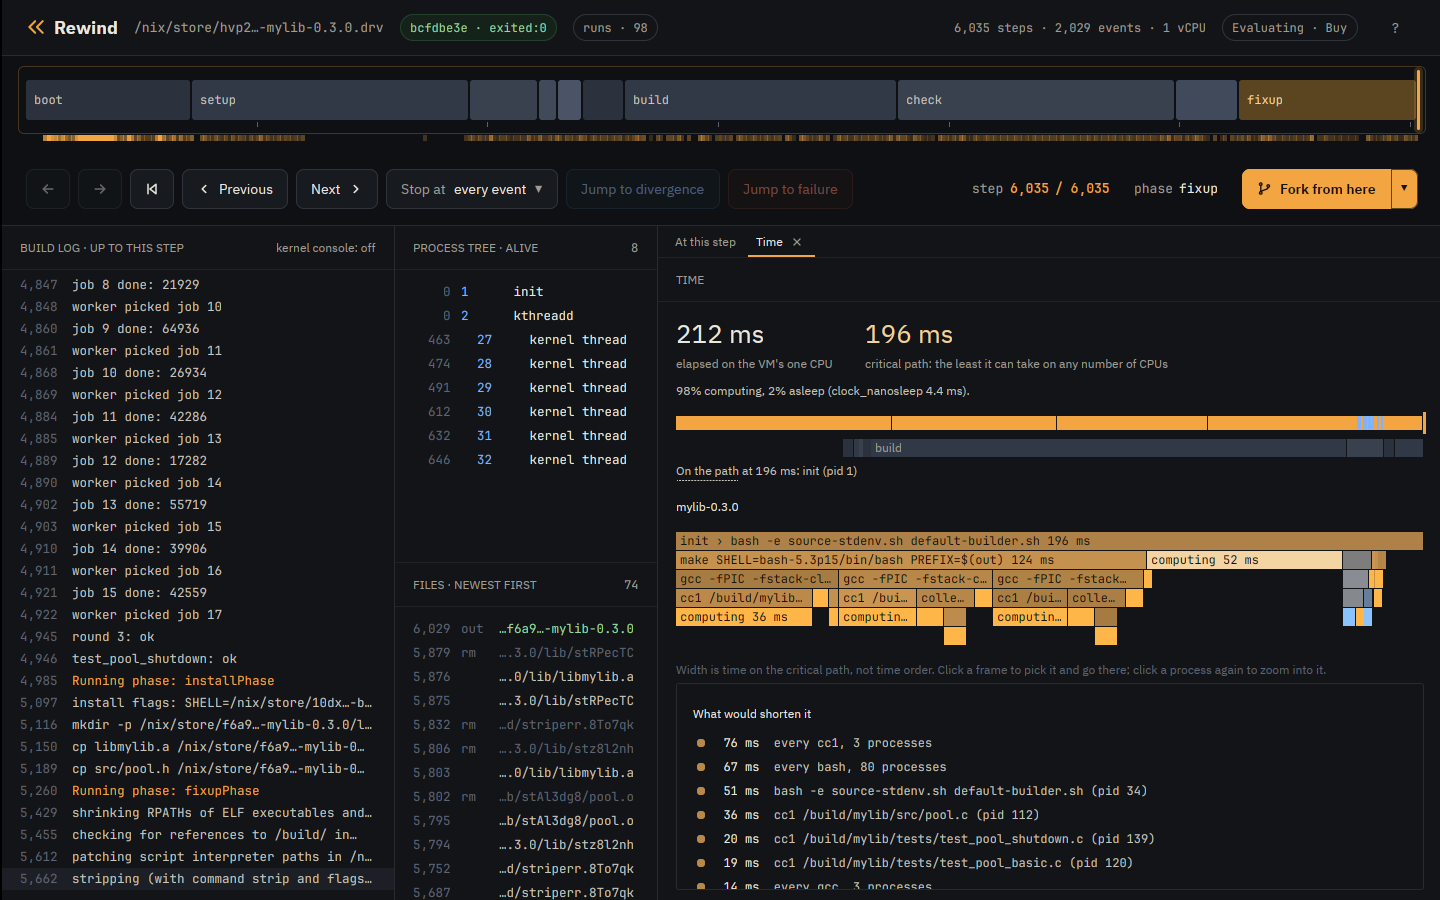
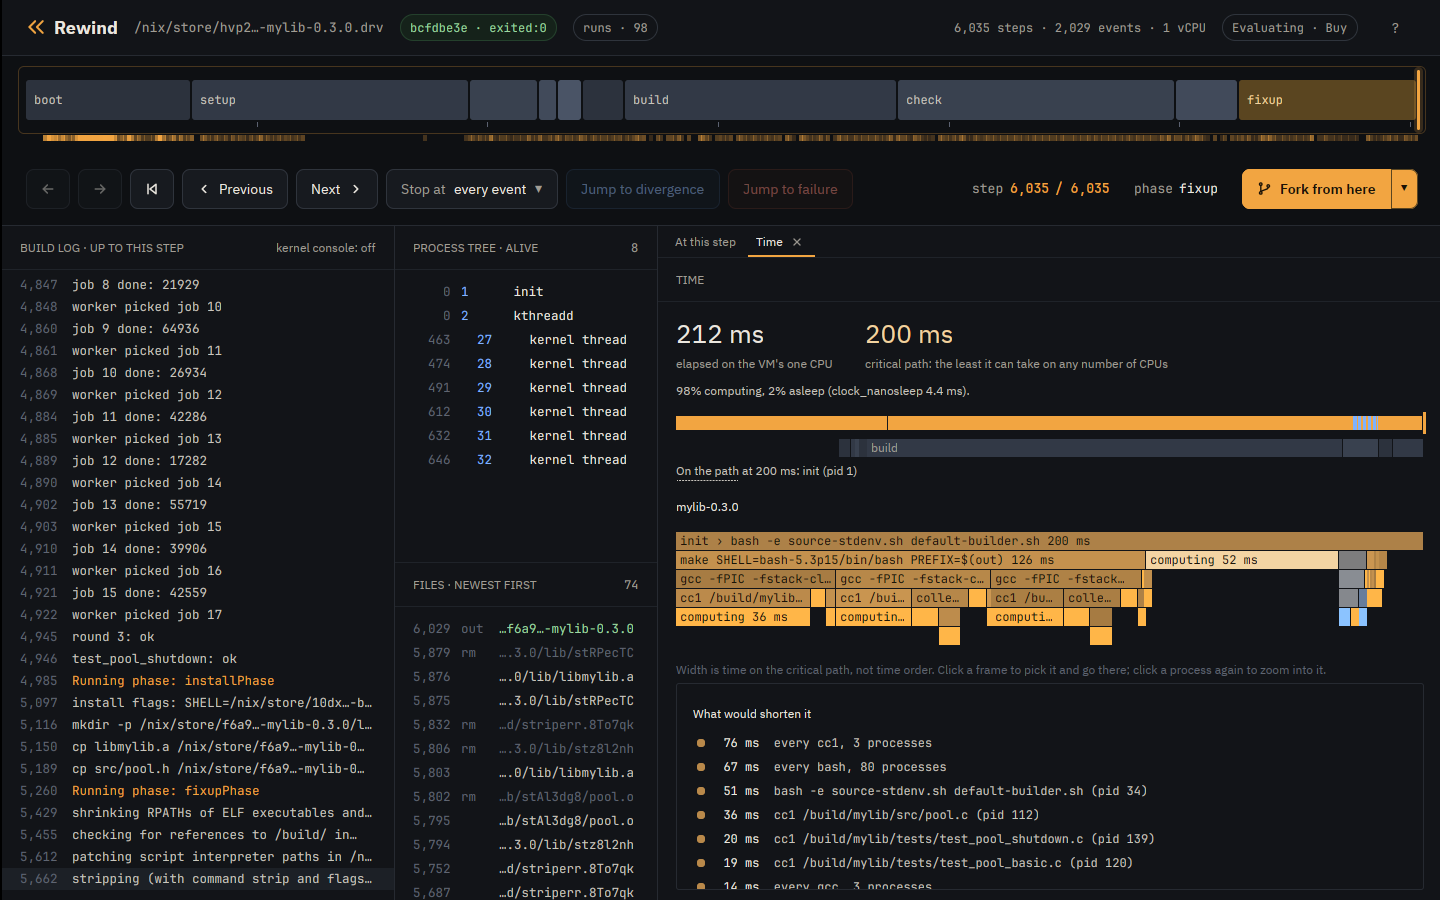
Record the advanced tutorial's critical path again
The critical path now waits for a thread or child that exited before
its parent ran, so mylib's path is 200 ms instead of 196 ms. The
Time tab screenshot shows the new path.

diff --git a/docs/tutorial-advanced.md b/docs/tutorial-advanced.md
@@ -527,7 +527,7 @@ interleave on the one vCPU:
 ```console
 $ rewind nix --cores 4 --epoch 1790985600 github:fzakaria/rewindvm#mylib
 ...
-rewind: run bcfdbe3e6f571c9d exited:0 after 6035 steps, 0.215s virtual, 0.581s wall (poweroff)
+rewind: run bcfdbe3e6f571c9d exited:0 after 6035 steps, 0.215s virtual, 0.442s wall (poweroff)
 /nix/store/f6a9gy362szw6nxx3ikrklr8glr6rdln-mylib-0.3.0 a9d703ba89774f3d  matches your store, rewindvm.cachix.org
 ```
 
@@ -554,7 +554,7 @@ one before, which is the least the run can take on any number of CPUs.
 $ rewind time bcfdbe3e
 mylib-0.3.0
     212 ms  elapsed on the VM's one CPU
-    196 ms  critical path: the least it can take on any number of CPUs
+    200 ms  critical path: the least it can take on any number of CPUs
             98% computing, 2% asleep (clock_nanosleep 4.4 ms)
 ...
 What would shorten it
@@ -572,7 +572,7 @@ What would shorten it
 ...
 ```
 
-The build took 212 ms and its critical path is 196 ms: more CPUs could
+The build took 212 ms and its critical path is 200 ms: more CPUs could
 save at most the difference, since mylib's Makefile is run without `-j`
 and make compiles one file at a time. Each
 row under "What would shorten it" is how much sooner the run would finish
@@ -597,22 +597,22 @@ source panel and gdb a click away.
 
 ```console
 $ rewind fork 11d4fbb7 4882 --schedule 1 --quiet
-rewind: run d15f07f44c78cafd exited:2 after 5042 steps, 0.201s virtual, 0.247s wall (poweroff)
+rewind: run d15f07f44c78cafd exited:2 after 5042 steps, 0.201s virtual, 0.138s wall (poweroff)
 rewind: the fork first differs from its parent at step 4983
 rewind: open it beside its parent in the desktop app: rewind open d15f07f44c78cafd 4983 --compare 11d4fbb7f2b822f5
 
 $ rewind fork 11d4fbb7 4882 --schedule 2 --quiet
-rewind: run b7ef4034e1af387b exited:0 after 6539 steps, 0.220s virtual, 0.162s wall (poweroff)
+rewind: run b7ef4034e1af387b exited:0 after 6539 steps, 0.220s virtual, 0.127s wall (poweroff)
 rewind: the fork first differs from its parent at step 4884
 rewind: open it beside its parent in the desktop app: rewind open b7ef4034e1af387b 4884 --compare 11d4fbb7f2b822f5
 
 $ rewind fork 11d4fbb7 4882 --schedule 3 --quiet
-rewind: run 77ef349e4669aa96 exited:0 after 6546 steps, 0.223s virtual, 0.133s wall (poweroff)
+rewind: run 77ef349e4669aa96 exited:0 after 6546 steps, 0.223s virtual, 0.114s wall (poweroff)
 rewind: the fork first differs from its parent at step 4884
 rewind: open it beside its parent in the desktop app: rewind open 77ef349e4669aa96 4884 --compare 11d4fbb7f2b822f5
 
 $ rewind fork 11d4fbb7 4882 --schedule 4 --quiet
-rewind: run f894f67b4e595e10 exited:0 after 6509 steps, 0.221s virtual, 0.135s wall (poweroff)
+rewind: run f894f67b4e595e10 exited:0 after 6509 steps, 0.221s virtual, 0.114s wall (poweroff)
 rewind: the fork first differs from its parent at step 4888
 rewind: open it beside its parent in the desktop app: rewind open f894f67b4e595e10 4888 --compare 11d4fbb7f2b822f5
 ```
@@ -673,7 +673,7 @@ The failing run's command makes it again, with the same id:
 ```console
 $ rewind show 11d4fbb7 | tail -1 | sh
 ...
-rewind: run 11d4fbb7f2b822f5 exited:2 after 5029 steps, 0.201s virtual, 0.421s wall (poweroff)
+rewind: run 11d4fbb7f2b822f5 exited:2 after 5029 steps, 0.201s virtual, 0.377s wall (poweroff)
 ```
 
 ## Compare any two runs
@@ -902,7 +902,7 @@ The same steps stall, one step in 128, but each stall picks one of the
 doublings of 10 µs up to the maximum, 14 of them for 50 ms, so fewer stalls
 are short. How often a race turns up then depends on how long it needs a
 thread held: 32 schedules of mylib crash 9 times by default and
-5 times with `--stall-max 100ms`, in 3.4 s and 3.4 s. A stall is virtual time, so the guest's clock
+5 times with `--stall-max 100ms`, in 3.0 s and 3.0 s. A stall is virtual time, so the guest's clock
 moves further, and a program's own timeouts see the extra time. The maximum is
 part of each run's spec, so `rewind show`, a replay and a fork of the run keep
 the maximum, and a run made without the flag keeps its id. A fork's own
@@ -1027,7 +1027,7 @@ $ nix shell nixpkgs#pkgsStatic.stdenv.cc -c x86_64-unknown-linux-musl-cc -static
 
 ```console
 $ rewind run --root spin --timeout 5 --name spin -- /bin/spin
-rewind: run 2814f76449693d48 timed-out after 719 steps, 0.004s virtual, 5.011s wall (timed out computing without exits for 4.9s, in user space in main+15 (spin.c:2), process 34 (spin))
+rewind: run 2814f76449693d48 timed-out after 719 steps, 0.004s virtual, 5.010s wall (timed out computing without exits for 4.9s, in user space in main+15 (spin.c:2), process 34 (spin))
 ```
 
 A run that timed out while still making exits was slow rather than stuck, and
